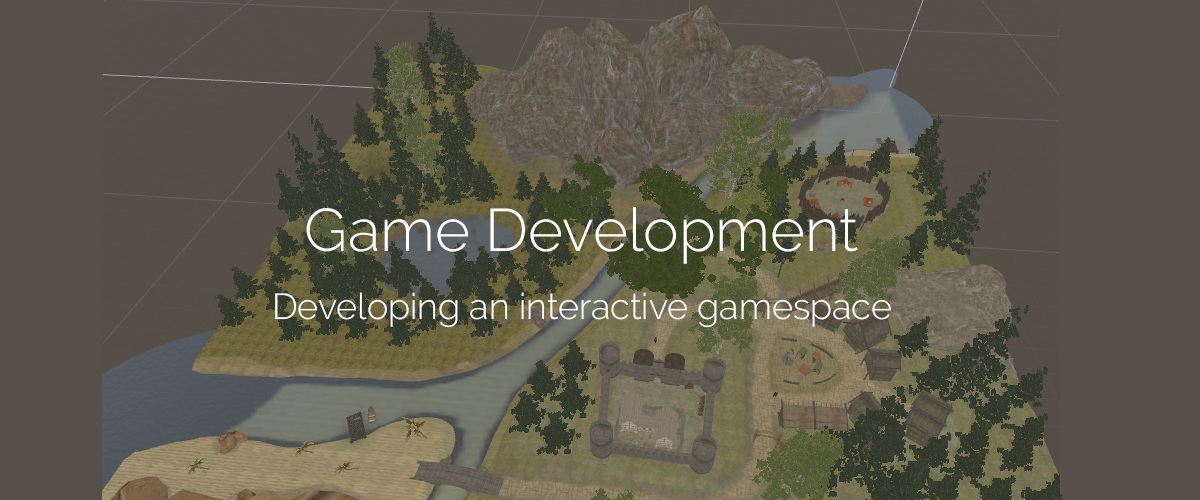
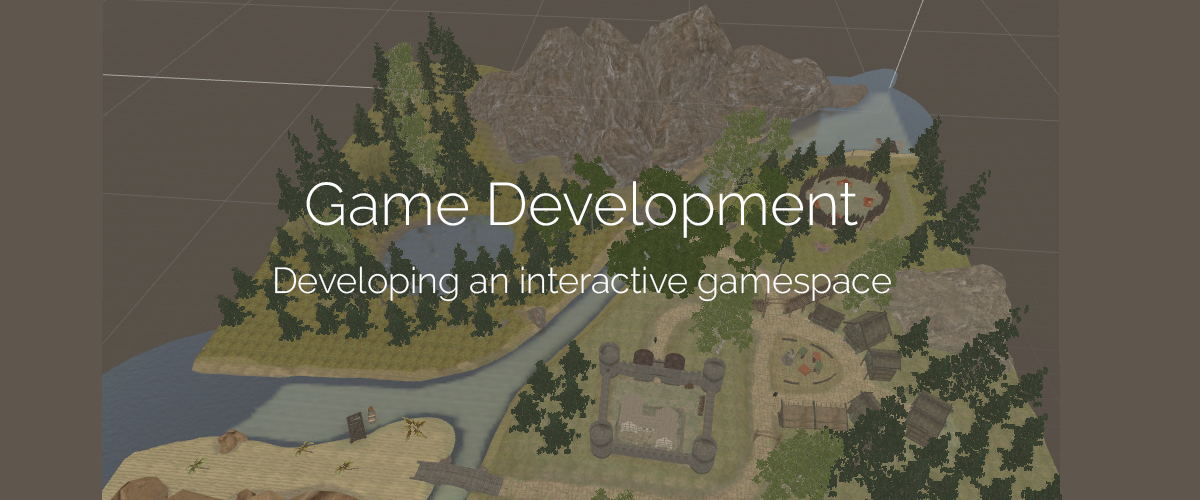
Add files via upload

Changed region(s): [[0.2467, 0.36, 0.7092, 0.51], [0.2158, 0.54, 0.74, 0.66]]

diff --git a/index.html b/index.html
@@ -111,8 +111,8 @@
 <div class="row narrow">
     <div class="col-md-4">
       <div class="about text-center" >
-        <btn class="work" href="#work">
-        <i class="fab fa-accusoft fa-3x"></i>
+      <a href= #work>  <btn class="skills">
+        <i class="fab fa-accusoft fa-3x"></i></a>
       </btn>
         <h3> Graphic Design </h3>
         <p> I am highly proficient with using the Adobe suite applications,
@@ -127,7 +127,7 @@
 
 <div class="col-md-4">
   <div class="about text-center">
-      <i class="fab fab fa-codepen fa-3x"></i>
+      <a href= #work> <i class="fab fab fa-codepen fa-3x"></i></a>
       <h3> App Development</h3>
       <p>Designing creative prototypes according to specifications,
           great understanding of software design and programming principles.
@@ -137,7 +137,7 @@
 
   <div class="col-md-4">
     <div class="about text-center">
-      <i class="fab fa-chrome fa-3x"></i>
+    <a href= #work><i class="fab fa-chrome fa-3x"></i></a>
       <h3> Web Design</h3>
       <p>Both creatively and technically inclined, to build or redesign websites.
         Strong ability to create functional and easy to use websites.
@@ -165,32 +165,32 @@
 
  	<div class="col-md-6">
  		<div class="portfolio-item">
- 			<a href="img/portfolio/1.png" data-lightbox="example-set" data-title="My Portfolio Image Description">
- 				<img class="example-image" src="img/portfolio/1.png" alt="">
+ 			<a href="img/portfolio/1.png" data-lightbox="example-set" data-title="Working with 4V (node based program) from scratch to produce a motion tracking particle display for the use of a fashion runway, this group project has taken 2 months to achieve, further implementions would be available as exhibitions to the public. ">
+ 				<img class="example-image" src="img/portfolio/1.png" alt="4V Node Programming">
+ 			</a>
+ 		</div>
+ 	</div>
+
+ 	<div class= "col-md-6">
+ 		<div class="portfolio-item">
+ 			<a href="img/portfolio/2.png" data-lightbox="example-set" data-title="Working with the company OCADO (food shopping site) to produce a 15s advert on the subject of (Worlds foods on your fingertips) this project was a group project as well.I was able to get my group partners hands to mimic a clapping motion, later edited in Adobe Premiere and linked up together with Adobe After Effects">
+ 				<img class="example-image" src="img/portfolio/2.png" alt="Ocado Advertisement">
  			</a>
  		</div>
  	</div>
 
  	<div class="col-md-6">
  		<div class="portfolio-item">
- 			<a href="img/portfolio/2.png" data-lightbox="example-set">
- 				<img class="example-image" src="img/portfolio/2.png" alt="">
+ 			<a href="img/portfolio/3.png" data-lightbox="example-set" data-title="--Current Ongoing Project-- Salzburg city points is an based for the tourists of Salzburg visiting the area.The app itself features a friendly user UI complimented together with AR elements such as the camera.Users will be able to take pictures/navigate to and of statues around Salzburg as a 3D object available to display. ">
+ 				<img class="example-image" src="img/portfolio/3.png" alt="Salzburg City Points">
  			</a>
  		</div>
  	</div>
 
  	<div class="col-md-6">
  		<div class="portfolio-item">
- 			<a href="img/portfolio/3.png" data-lightbox="example-set">
- 				<img class="example-image" src="img/portfolio/3.png" alt="">
- 			</a>
- 		</div>
- 	</div>
-
- 	<div class="col-md-6">
- 		<div class="portfolio-item">
- 			<a href="img/portfolio/4.png" data-lightbox="example-set">
- 				<img class="example-image" src="img/portfolio/4.png" alt="">
+ 			<a href="img/portfolio/4.png" data-lightbox="example-set" data-title="Interactive gamespace, this was coded and created using Unity, players of the game can explore the space around them. Interactive elements of the game consisted of boat travel, picking items and interacting with the patrolling NPC'S. ">
+ 				<img class="example-image" src="img/portfolio/4.png" alt="Interactive Gamespace">
  			</a>
  		</div>
  	</div>
@@ -208,49 +208,45 @@
 
 <!-- End of portfolio Section !-->
 
-<!-- Start blog Section !-->
+<!-- Start of about me Section !-->
 <div id="about"class="offset">
 
   <div class="jumbotron">
 
   	<h3 class="heading">About</h3>
   	<div class="heading-underline"></div>
+    <center>
+  <div class="row">
 
-  <div class="row narrow">
-
-  	<div class="col-md-4">
-  		<div class="card text-center">
-  			<img class="card-img-top" src="img/testimonials/1.png" alt="">
+  	<div class="col-md-5">
+      <div class="center-block img-responsive">
+  		<div class="card">
+  			<img class="card-img-top" src="img/about/1.png" alt="Dominykas Navickas" "text-center"> </img>
   			<div class="card-body">
   				<h4>Dominykas Navickas</h4>
   				<h5>Creative Technologist</h5>
   				<p>I am 22 year multi-displinary creative designer, I excel at using the Adobe suite applications,app development and creating protypes for other types of media.I am a strong fan of clean and sophisticated UX/UI layouts.</p>
-  			</div>
-  		</div>
-  	</div>
 
-  	<div class="col-md-4">
-  		<div class="card text-center">
-  			<img class="card-img-top" src="img/testimonials/2.png" alt="">
-  			<div class="card-body">
-  				<h4>Jessica Miller</h4>
-  				<h5>President, Company Inc.</h5>
-  				<p>"I have over 10 years of experience in technology and haven't come accross a better service."</p>
-  			</div>
-  		</div>
-  	</div>
-
-    <div class="col-md-4">
-      <div class="card text-center">
-        <img class="card-img-top" src="img/testimonials/1.png" alt="">
-        <div class="card-body">
-          <h4>John Lee</h4>
-          <h5>CEO, Company Inc.</h5>
-          <p>"I have over 10 years of experience in technology and haven't come accross a better service."</p>
         </div>
-      </div>
+  		</div>
+  	</div>
     </div>
 
+    <div class="col-md-6">
+      <div class="card1">
+<div class="center-block img-responsive">
+  		<div class="card">
+  			<img class="card-img-top" src="img/about/2.png" alt="CV" "text-center"> </img>
+  			<div class="card-body">
+  				<h4>Curriculum Vitae</h4>
+  				<h5>Looking for media creative roles!</h5>
+  				<p>This is my CV, references provided on request, Looking forward for your reply!</p>
+</div>
+        </div>
+  		</div>
+  	</div>
+    </div>
+</dv>
   </div> <!--- End Row -->
   </div> <!--- End Jumbotron -->
 
@@ -264,21 +260,22 @@
 <!-- Start contact  Section !-->
 <div id="contact"class="offset" >
 
+
   <div class="container-fluid footer">
   <div class="row">
 
   	<div class="col-md-5">
-  		<img src="img/nest.png" alt="">
+  		<img src="img/nest.png" alt="Dominykas Navickas">
   		<p>I am always looking forward to embarking on a new project. Feel free to contact me if you need some work done.</p>
   		<strong>Contacting by post?</strong>
   		<p>98A Queens Avenue<br>Watford,Hertfordshire</p>
   		<strong>Contact Info</strong>
       <p>Dominykas Navickas </p>
   		<p>07401513882<br>domolyga@hotmail.co.uk</p>
-  		<a href="#"><i class="fab fa-facebook-square"></i></a>
-  		<a href="#"><i class="fab fa-twitter-square"></i></a>
-  		<a href="#"><i class="fab fa-google-plus-square"></i></a>
-  		<a href="#"><i class="fab fa-linkedin"></i></a>
+  		<a href="https://www.facebook.com/dominykasn"><i class="fab fa-facebook-square"></i></a>
+  		<a href="https://dominykasnavickas.tumblr.com/"><i class="fab fa-tumblr-square"></i></a>
+  		<a href="https://plus.google.com/u/0/117974462099846769367?tab=mX"><i class="fab fa-google-plus-square"></i></a>
+  		<a href="https://www.linkedin.com/in/dominykas-navickas-a35a22128/"><i class="fab fa-linkedin"></i></a>
   	</div>
 
   </div> <!--- End Row -->
@@ -286,9 +283,6 @@
 </div>
 
 <!-- End of contact Section !-->
-
-
-
 
 
 

diff --git a/style.css b/style.css
@@ -94,8 +94,23 @@ h1{
 	color: white;
 	font-size: 2.4rem;
 	text-transform: uppercase;
-	padding-bottom: 7rem;
+	padding-bottom: 10rem;
 }
+
+.type {
+	width: 100%;
+	max-width: 100%;
+	position: absolute;
+	top: 55%;
+	z-index: 1;
+
+
+}
+
+
+
+
+
 .btn {
 	border-width: medium;
 	border-radius: 0;
@@ -176,14 +191,25 @@ img.example-image {
 }
 
 /*============= TESTIMONIALS SECTION =============*/
+.card1 {
+	display:absolute;
+	margin-left: -8rem;
+	margin: 0px,1rem, 0rem;
+	border-radius: 0;
+ /* Added */
+  margin-bottom: 1rem; /* Added */
+}
 
-.card {
-	margin: 0 1rem;
-	border-radius: 0;
-}
 .card-img-top {
+	display:inline;
+	border-radius: 4px;
+
+
+}
+.card-img-top:active {
 	border-radius: 0;
 }
+
 .card h4 {
 	font-weight: 700;
 }
@@ -191,6 +217,43 @@ img.example-image {
 	color: #1e50af;
 }
 .card p {
+	border-top: 1px solid rgba(0, 0, 0, 0.1);
+	padding: 1rem;
+	margin: 1rem 0 1.5rem;
+}
+.card {
+	display:absolute;
+	margin-left: 9rem;
+	margin: 0px,1rem, 0rem;
+	border-radius: 0;
+ /* Added */
+  margin-bottom: 5rem; /* Added */
+	padding-bottom: 1rem
+
+
+
+
+}
+
+
+}
+.card-img-top {
+	display:inline;
+	border-radius: 4px;
+
+
+}
+.card-img-top:active {
+	border-radius: 0;
+}
+
+.card1 h4 {
+	font-weight: 700;
+}
+.card h5 {
+	color: #1e50af;
+}
+.card1 p {
 	border-top: 1px solid rgba(0, 0, 0, 0.1);
 	padding: 1rem;
 	margin: 1rem 0 1.5rem;
